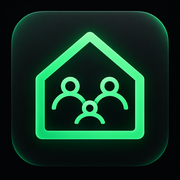
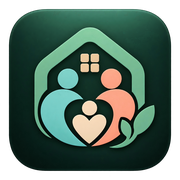
Add files via upload

diff --git a/js/pwa.js b/js/pwa.js
@@ -2,7 +2,7 @@
   "use strict";
 
   const RK_DESIGN_SYSTEM_VERSION = "1.0.7";
-  const RK_BUILD_VERSION = "v2.0.0a48e1";
+  const RK_BUILD_VERSION = "v2.0.0a48f";
 
   function appBaseUrl() {
     try {
@@ -170,6 +170,21 @@
   function enhanceIdentityBrandCopy() {
     if (document.documentElement.dataset.rkModule !== "identity") return;
 
+    // Production logo integration: auth pages use the real RuangKitha symbol asset.
+    if (document.documentElement.dataset.rkIdentityKind === "auth") {
+      const mark = document.querySelector(".auth-brand-mark");
+      if (mark && mark.dataset.rkLogoReady !== "true") {
+        mark.innerHTML = '<img src="assets/brand/ruangkitha-symbol-256.png" alt="" aria-hidden="true">';
+        mark.dataset.rkLogoReady = "true";
+      }
+    }
+
+    // Normalize legacy metadata when older HTML still says Family Superapp.
+    const applicationName = document.querySelector('meta[name="application-name"]');
+    if (applicationName) applicationName.setAttribute("content", "RuangKitha");
+    const appleTitle = document.querySelector('meta[name="apple-mobile-web-app-title"]');
+    if (appleTitle) appleTitle.setAttribute("content", "RuangKitha");
+
     // Keep the product wordmark visually consistent without changing auth logic.
     document.querySelectorAll(".auth-brand strong").forEach(node => {
       if (node.dataset.rkWordmarkReady === "true") return;
@@ -193,7 +208,7 @@
         const label = row.querySelector("span");
         const value = row.querySelector("small");
         if (label?.textContent?.trim() === "Versi" && value) {
-          value.textContent = "2.0.0a48e1 PWA";
+          value.textContent = "2.0.0a48f PWA";
         }
       });
     }
@@ -489,7 +504,7 @@
   if ("serviceWorker" in navigator) {
     window.addEventListener("load", async () => {
       try {
-        const registration = await navigator.serviceWorker.register("./sw.js?v=20260912-v200a48e1", {
+        const registration = await navigator.serviceWorker.register("./sw.js?v=20260912-v200a48f", {
           scope: "./"
         });
 

diff --git a/sw.js b/sw.js
@@ -1,4 +1,4 @@
-const CACHE_NAME = "ruangkitha-v2.0.0a48e1-identity-ux-polish-design-system-v1";
+const CACHE_NAME = "ruangkitha-v2.0.0a48f-logo-app-icon-integration-v1";
 const OFFLINE_URL = "./offline.html";
 
 const APP_FILES = [
@@ -62,6 +62,17 @@ const APP_FILES = [
   "./icons/icon-192-v2.png",
   "./icons/icon-512-v2.png",
   "./icons/notification-badge-96.png",
+  "./icons/maskable-512-v3.png",
+  "./icons/monochrome-512-v3.png",
+  "./icons/icon-192-v3.png",
+  "./icons/icon-512-v3.png",
+  "./assets/brand/ruangkitha-symbol.png",
+  "./assets/brand/ruangkitha-symbol-256.png",
+  "./assets/brand/ruangkitha-wordmark.png",
+  "./assets/brand/ruangkitha-logo-light.png",
+  "./assets/brand/ruangkitha-logo-dark.png",
+  "./assets/brand/ruangkitha-monochrome-dark.png",
+  "./assets/brand/ruangkitha-monochrome-light.png",
   "./index.html",
   "./catatan.html",
   "./catatan-keluarga.html",
@@ -320,7 +331,7 @@ self.addEventListener("push", event => {
     tag: String(payload.tag || `ruangkitha-${notificationId || Date.now()}`),
     renotify: false,
     lang: "id-ID",
-    icon: "./icons/icon-192-v2.png",
+    icon: "./icons/icon-192-v3.png",
     badge: "./icons/notification-badge-96.png",
     actions: [{ action: "open", title: String(payload.actionTitle || "Buka") }],
     data: { url: target, notificationId }

diff --git a/css/pages/ruangkitha-profile-auth-family-v1.css b/css/pages/ruangkitha-profile-auth-family-v1.css
@@ -1071,3 +1071,24 @@ html.rk-modal-open body {
   opacity: .65;
   cursor: wait;
 }
+
+
+/* ======================================================================
+   v2.0.0a48f — Logo & App Icon Integration V1
+   ====================================================================== */
+html[data-rk-identity-kind="auth"] .auth-brand-mark {
+  overflow: hidden;
+  display: grid;
+  place-items: center;
+}
+
+html[data-rk-identity-kind="auth"] .auth-brand-mark > img {
+  width: 34px;
+  height: 34px;
+  display: block;
+  object-fit: contain;
+}
+
+html[data-theme="dark"][data-rk-identity-kind="auth"] .auth-brand-mark > img {
+  filter: saturate(.98) brightness(1.06);
+}
